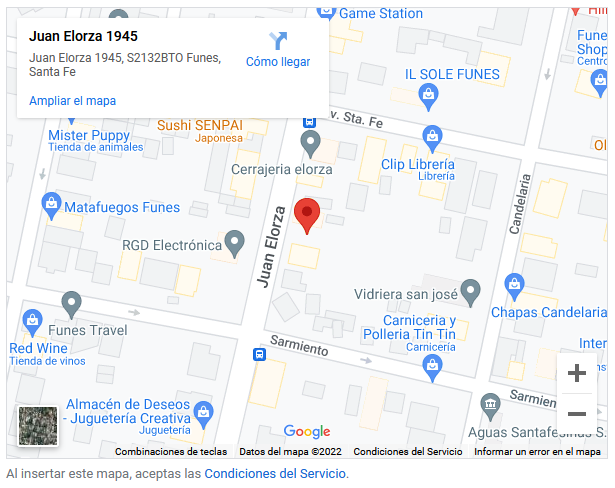
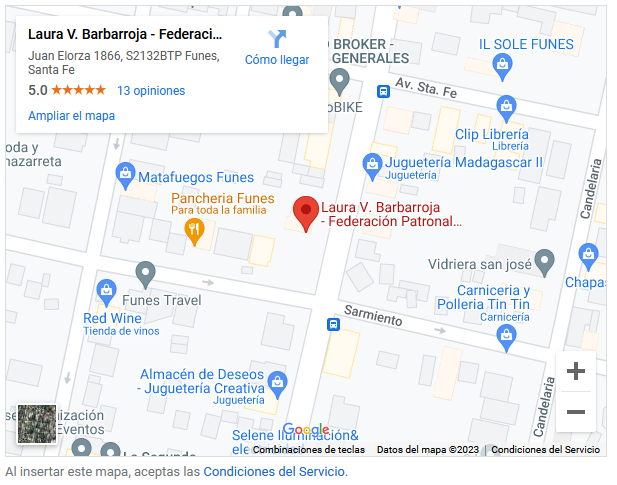
pagina contacto terminada

diff --git a/css/style.css b/css/style.css
@@ -283,29 +283,48 @@ font-family: 'Roboto', sans-serif;
     background-position:bottom;
     background-size: cover;
 }
-.contactoCentral{
+.contactoMedio{
     background-color: #0055A2;
-    width: 90%;
-    height: 360px;
-    margin-left: 200px;
+    display: grid;
+    grid-template-columns: 1fr 1fr;
+    grid-template-rows: auto;
+    grid-template-areas: 
+    "mapaGoogle contactoTexto";
+    justify-content: center;
 }
-.contactoCentral div{
-    display: inline-block;
-}
-.contactoCentral div img{
-    width: 550px;
-    height: 435px;
-    margin-top: -130px;
-    margin-left: -150px;
+.mapaGoogle{
+    grid-area: mapaGoogle;
+    justify-self: center;    
+    background-image:url("../assets/img/mapa.png");
+    width: 617px;
+    height: 485px;
+    background-repeat: no-repeat;
+    background-position:center;
+    background-size: cover;
 }
 .contactoTexto{
+    grid-area: contactoTexto;
+    justify-self: center;
+    align-self: center;
     background-color: #010440;
-    width: 70%;
-    height: 280px;
-    position: relative;
-    /* margin-left: 650px;
-    margin-top: -380px; */
+    padding: 20px;
+    font-family: 'Roboto', sans-serif;
+    font-style: normal;
+    font-weight: 400;
+    font-size: 22px;
+    line-height: 26px;
+    text-align:center;
+    color: #F2F2F2;
+    border: 1px solid #000000;
+    text-shadow: 0px 4px 4px rgba(0, 0, 0, 0.25);
 }
+.contactoBase{
+    background-color: #0055A2;
+    width: 100%;
+    height: 60px;
+}
+
+
 
 
 /* cotiza.html >> Cotizá tu seguro */
@@ -356,9 +375,25 @@ font-family: 'Roboto', sans-serif;
         flex-wrap: wrap;
     }
 
-    /* cambios en el main */
+    /* cambios en ContactoMain */
     .contactoFondo{
         height: 130px;
+    }
+    .contactoMedio{
+        display: grid;
+        grid-template-columns: 1fr;
+        grid-template-rows: auto;
+        grid-template-areas: 
+        "mapaGoogle"
+        "contactoTexto";
+        justify-content: center;
+    }
+    .mapaGoogle{
+        width: 352px;
+        height: 277px;
+        background-repeat: no-repeat;
+        background-position:center;
+        background-size: cover;
     }
 
     /* cambios en el Footer */

diff --git a/pages/contacto.html b/pages/contacto.html
@@ -35,12 +35,31 @@
     </header>
 
     <main>
-        <section class="contactoFondo"></section>
-        <section class="contactoCentral">
-            <div><img src="../assets/img/mapa.png" alt="mapa ubicacion"></div>
-            <!-- <div class="contactoTexto">sss</div> -->
+        <div class="contactoFondo"></div>
+        <section class="contactoMedio">
+            <div class="mapaGoogle">
+                <!-- <iframe src="https://www.google.com/maps/embed?pb=!1m18!1m12!1m3!1d837.3087041794695!2d-60.81406095319225!3d-32.918393732111056!2m3!1f0!2f0!3f0!3m2!1i1024!2i768!4f13.1!3m3!1m2!1s0x95b64dad2b01d789%3A0x360d86cceefcedb9!2sLaura%20V.%20Barbarroja%20-%20Federaci%C3%B3n%20Patronal%20Seguros%20S.A.!5e0!3m2!1ses-419!2sar!4v1673313528988!5m2!1ses-419!2sar" 
+                    width="600" height="450" style="border:0;" allowfullscreen="" loading="lazy" referrerpolicy="no-referrer-when-downgrade">
+                </iframe>     -->
+                <!-- <a href="https://goo.gl/maps/CNWUJUC7N9rkY6we9" target="_blank">
+                    <img src="../assets/img/mapa.png" alt="Juan Elorza 1866, Funes, Santa Fe">
+                </a> -->
+            </div>
+            <div class="contactoTexto">
+                <div>
+                ¿Cómo te podemos ayudar?<br><br>
+                Podes llamarnos o escribirnos por WhatAspp al número 
+                <a href="https://api.whatsapp.com/send/?phone=543416415000&text&type=phone_number&app_absent=0" target="_blank">3416415000</a>
+                <br><br>
+                O acercarte a nuestras oficinas en el centro de Funes: Juan Elorza 1866 de 
+                Lunes a Viernes de 9 a 17 horas<br><br>
+                También podes escribirnos a: 
+                <a href="mailto:laura@barvaseguros.com.ar">laura@barvaseguros.com.ar</a>
+                </div>
+            </div>
         </section>
-        <section class="quienBlanco"></section>
+        <div class="contactoBase"></div>
+
     </main>
 
 
